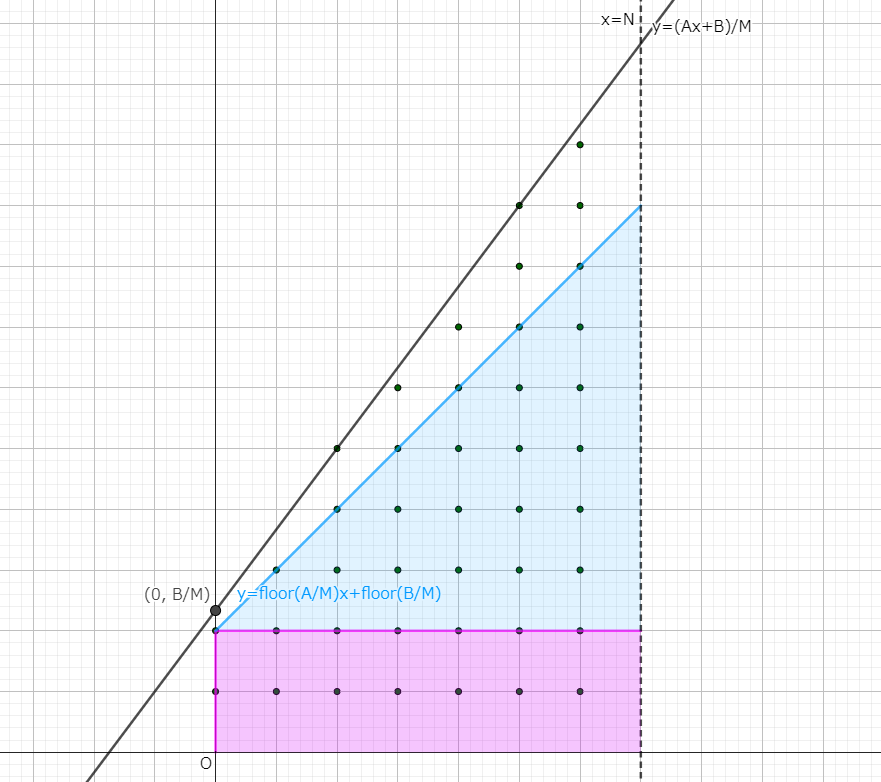
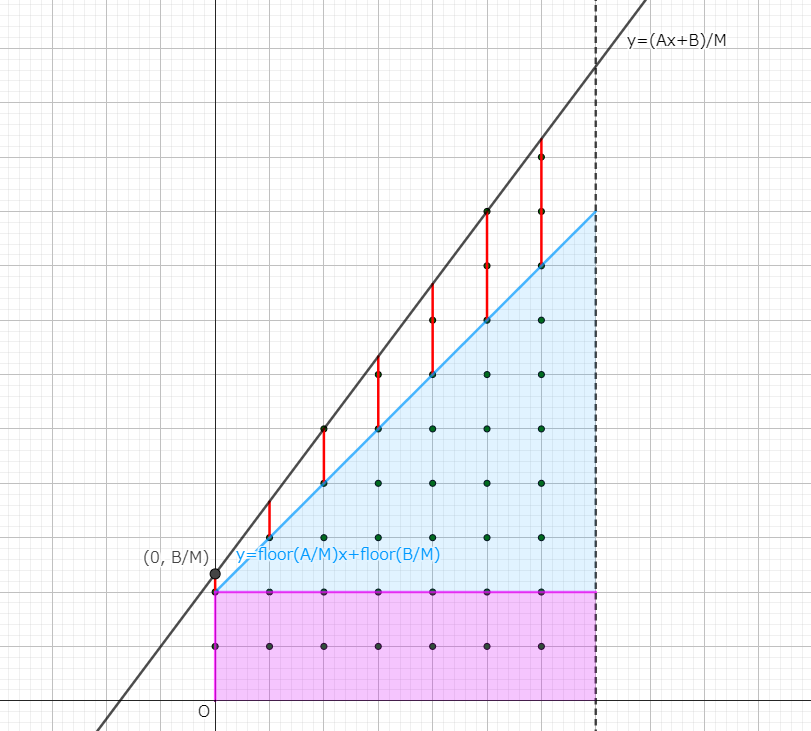
[update]floor_sum

diff --git a/other/floor_sum.md b/other/floor_sum.md
@@ -9,6 +9,48 @@ last_modified_date:
 
 - [AtCoder Library Practice Contest C - Floor Sum](https://atcoder.jp/contests/practice2/tasks/practice2_c)
 
-$$\sum_{i=0}^{N-1} \left\lfloor {\frac{Ai+B}{M}} \right\rfloor$$ を $O(\log N)$ で求める。
+$$\sum_{i=0}^{N-1} \left\lfloor {\frac{Ai+B}{M}} \right\rfloor$$ を $O(\log A + \log M)$ で求める。
+
+下図の格子点を再帰的に数えることを考える。すなわち、$\sum_{i=0}^{N-1} \lfloor (Ai+B)/M \rfloor$ を、より領域の小さい $\sum_{i=0}^{N'-1} \lfloor (A'i+B')/M' \rfloor$ に置き換えていく。
 
 ![](../img/floor_sum_example01.png)
+
+はじめに、長方形の部分と直角三角形の部分を数える。このとき、直角三角形の斜辺の傾きはとりうる最大の整数とする。それぞれの領域で実線部分は境界を含む。
+
+![](../img/floor_sum_step01.png)
+
+このとき、各部分の格子点の個数は、
+
+- 長方形の部分: $\left\lfloor {\frac{B}{M}} \right\rfloor \times N$
+- 直角三角形の部分: $\left\lfloor {\frac{A}{M}} \right\rfloor \times N(N-1)/2 $
+
+となる。残る領域を変形すると下図となる。(直角三角形の斜辺から $y=(Ax+B)/M$ まで $y$ 軸平行に線分を引くと、変形の前後で線分の長さは等しいので、格子点の個数は変わらないことがわかる)
+
+![](../img/floor_sum_step02.png)
+
+ここで、直線 $f(x)$ の式は $f(x)=\frac{A\%M}{M}x + \frac{B\%M}{M}$ となる[^floor]。この領域を $(N,0)$ に対して点対称に動かす。
+
+![](../img/floor_sum_step03.png)
+
+動かした直線を $g(x)$ とする。傾きは $M/(A\%M)$ である。このあと領域全体を $x$ 軸負方向に $N - \lfloor f(N) \rfloor$ だけずらす。
+
+![](../img/floor_sum_step04.png)
+
+まず、傾きから、$A' = M, M' = A\%M$ である。
+ずらしたあとの幅を $N'$ とすると、$N' = N - (N-\lfloor f(N) \rfloor) = \lfloor f(N) \rfloor$ である[^clear]。
+また、$y=(A'x+B')/M'$ が $(N'- f(N), 0)$ を通るので、代入して頑張って計算すると $B'=((A\%M)N+B\%M)\%M$ であることがわかる。
+
+$N,M,A,B$ の更新は $O(1)$ で、ユークリッドの互除法と同様に $A$ と $M$ で余りを取り合いながら計算するので、ループ回数は $O(\log A + \log M)$ である。
+
+```python
+def floor_sum(n, m, a, b):
+    res = 0
+    while n > 0:
+        res += (a//m)*(n*(n-1)//2) + n*(b//m)
+        n, b = divmod(a % m * n + b % m, m)
+        m, a = a % m, m
+    return res
+```
+
+[^floor]: $0$ より大きい整数 $a$, $b$ について $a/b - \lfloor a/b \rfloor = a\%b/b$ が成り立つ。
+[^clear]: ここがごちゃごちゃしないように、初めから反転させて考える方法もある。[@kyopro_friends さんの解説](https://twitter.com/kyopro_friends/status/1304063876019793921)
